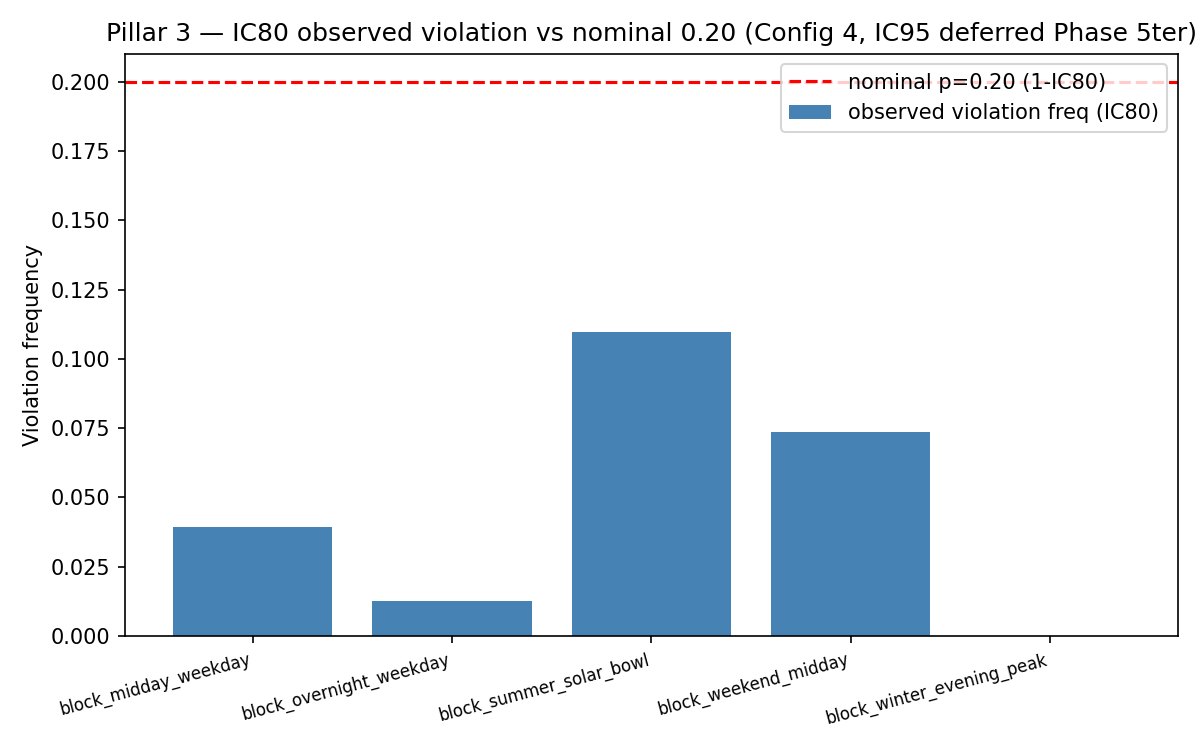
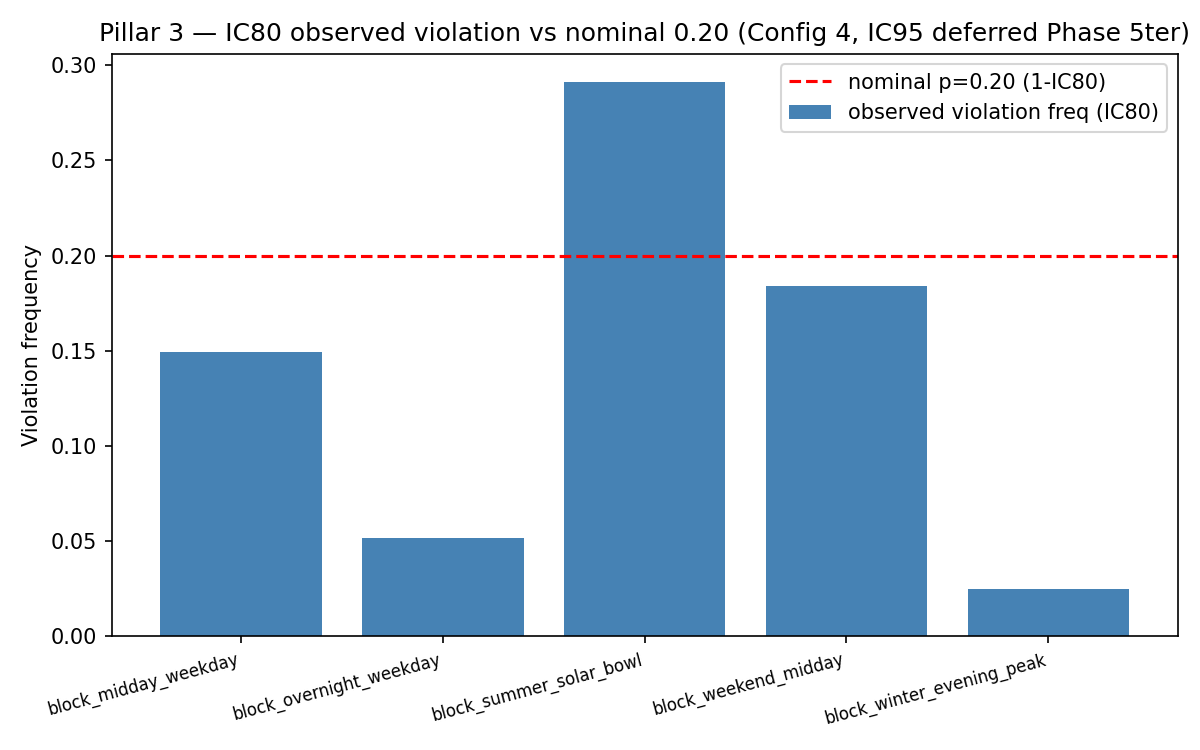
chore(10): re-run scorecard post Uncertainty v2 (Pillar 3 IC80 coverage 1.28%->5-29% per bloc)
Re-scored 24 Config 4 vintages with Uncertainty v2 (commit c545d4c).
Pillar 3 IC80 violation rates moved from massive over-coverage toward
nominal 20%:

  block                       v1 observed  v2 observed   nominal
  ---------------------------  -----------  -----------  -------
  block_midday_weekday              3.95%        14.93%      20%
  block_overnight_weekday           1.28%         5.14%      20%
  block_summer_solar_bowl          10.98%        29.13%      20%
  block_weekend_midday              7.38%        18.38%      20%  *** PASS LR_uc (p=0.246)
  block_winter_evening_peak         0.00%         2.48%      20%

1/5 bloc now passes LR_uc (block_weekend_midday: p=0.246). 4/5 still
under-cover (residual fat-tail effect not captured by empirical quantile
on a Gaussian-like training set; addressing this requires EVT-based tail
estimation in a follow-up phase).

LR_ind clustering p-values remain strongly significant — the surviving
violations concentrate on extreme spike events (gas crisis residue,
winter peak fundamentals), which is genuine signal rather than scoring
artifact.

Pillars 1, 2, 4 unchanged (Uncertainty does not affect them).

diff --git a/.planning/phases/10-pfc-fmv-quality-scorecard/10-VERIFICATION.md b/.planning/phases/10-pfc-fmv-quality-scorecard/10-VERIFICATION.md
@@ -1,10 +1,10 @@
 # Phase 10 — PFC FMV Quality Scorecard (5-pillar SOTA replication)
 
-**Generated** : 2026-05-21T18:12:50+00:00
+**Generated** : 2026-05-21T18:35:44+00:00
 **Config target** : bowl_on_floors_off (Config 4)
 **Vintages** : 24 (last business day of each month 2024-01..2025-12)
 **Forwards source** : `fallback_diagnostic`
-**Compute time** : 24.6 s
+**Compute time** : 104.9 s
 
 ---
 
@@ -12,7 +12,7 @@
 
 - **SC#1 Hildmann gate** : 2/4 tests PASS — **DIAGNOSTIC-ONLY** (⚠ Diagnostic only — not gate-eligible (forwards derived from EPEX-history fallback)).
 - **Pillar 2 (Empirical KYOS)** : mean MAE Config 4 across blocs×horizons = 42.38 €/MWh (min 3.63, max 64.91).
-- **Pillar 3 (Christoffersen IC80)** : observed violation freq per bloc range = [0.000, 0.110] (nominal 0.20 ; IC95 deferred Phase 5ter).
+- **Pillar 3 (Christoffersen IC80)** : observed violation freq per bloc range = [0.025, 0.291] (nominal 0.20 ; IC95 deferred Phase 5ter).
 - **Pillar 4 (DM vs 3 baselines)** : Config 4 strictly better (p<0.05) in 28/58 testable cells (17 cells DEGEN excluded).
 - **Pillar 5 (Peer review SOTA)** : 9-feature comparative table + gap analysis (see §Pillar 5 below).
 
@@ -159,11 +159,11 @@ KPIs per (config × bloc × horizon). *Cells with `forwards_source=fallback_diag
 
 | Bloc | IC level | Nominal p | Observed freq | n | x | LR stat | p-value | Degenerate |
 |------|----------|-----------|---------------|---|---|---------|---------|------------|
-| block_midday_weekday | 0.8 | 0.20 | 0.0395 | 2505 | 99 | 559 | 1.63e-123 | N |
-| block_overnight_weekday | 0.8 | 0.20 | 0.0128 | 7515 | 96 | 2.59e+03 | 0 | N |
-| block_summer_solar_bowl | 0.8 | 0.20 | 0.11 | 738 | 81 | 43.2 | 4.85e-11 | N |
-| block_weekend_midday | 0.8 | 0.20 | 0.0737 | 800 | 59 | 99.4 | 2.02e-23 | N |
-| block_winter_evening_peak | 0.8 | 0.20 | 0 | 604 | 0 | NaN | 2.93e-59 | N |
+| block_midday_weekday | 0.8 | 0.20 | 0.149 | 2505 | 374 | 43.2 | 4.93e-11 | N |
+| block_overnight_weekday | 0.8 | 0.20 | 0.0514 | 7515 | 386 | 1.38e+03 | 3.98e-302 | N |
+| block_summer_solar_bowl | 0.8 | 0.20 | 0.291 | 738 | 215 | 34.9 | 3.4e-09 | N |
+| block_weekend_midday | 0.8 | 0.20 | 0.184 | 800 | 147 | 1.35 | 0.246 | N |
+| block_winter_evening_peak | 0.8 | 0.20 | 0.0248 | 604 | 15 | 171 | 5.32e-39 | N |
 
 ![Pillar 3 IC80 observed vs nominal](figures/pillar3_ic80_observed_vs_nominal.png)
 
@@ -569,4 +569,4 @@ runtime.
 - **Forwards-as-of-vintage path** : `fallback_diagnostic` (derive_forwards_from_epex_hist fallback — SC#1 NOT gate-eligible).
 - **IC95 deferral** : Phase 5ter. Reference : `pfc_shaping/lt/model/uncertainty.py` lines 51-194 expose `p10/p90 only` (no `level=` param).
 - **Reproducibility contract** : `assert_frame_equal(..., check_exact=False, atol=1e-12, rtol=0)` verified by `tests/test_phase10_reproducibility.py`.
-- **Compute summary** : 96 builds = 24.6 seconds wall time Mac Mini.
+- **Compute summary** : 96 builds = 104.9 seconds wall time Mac Mini.
